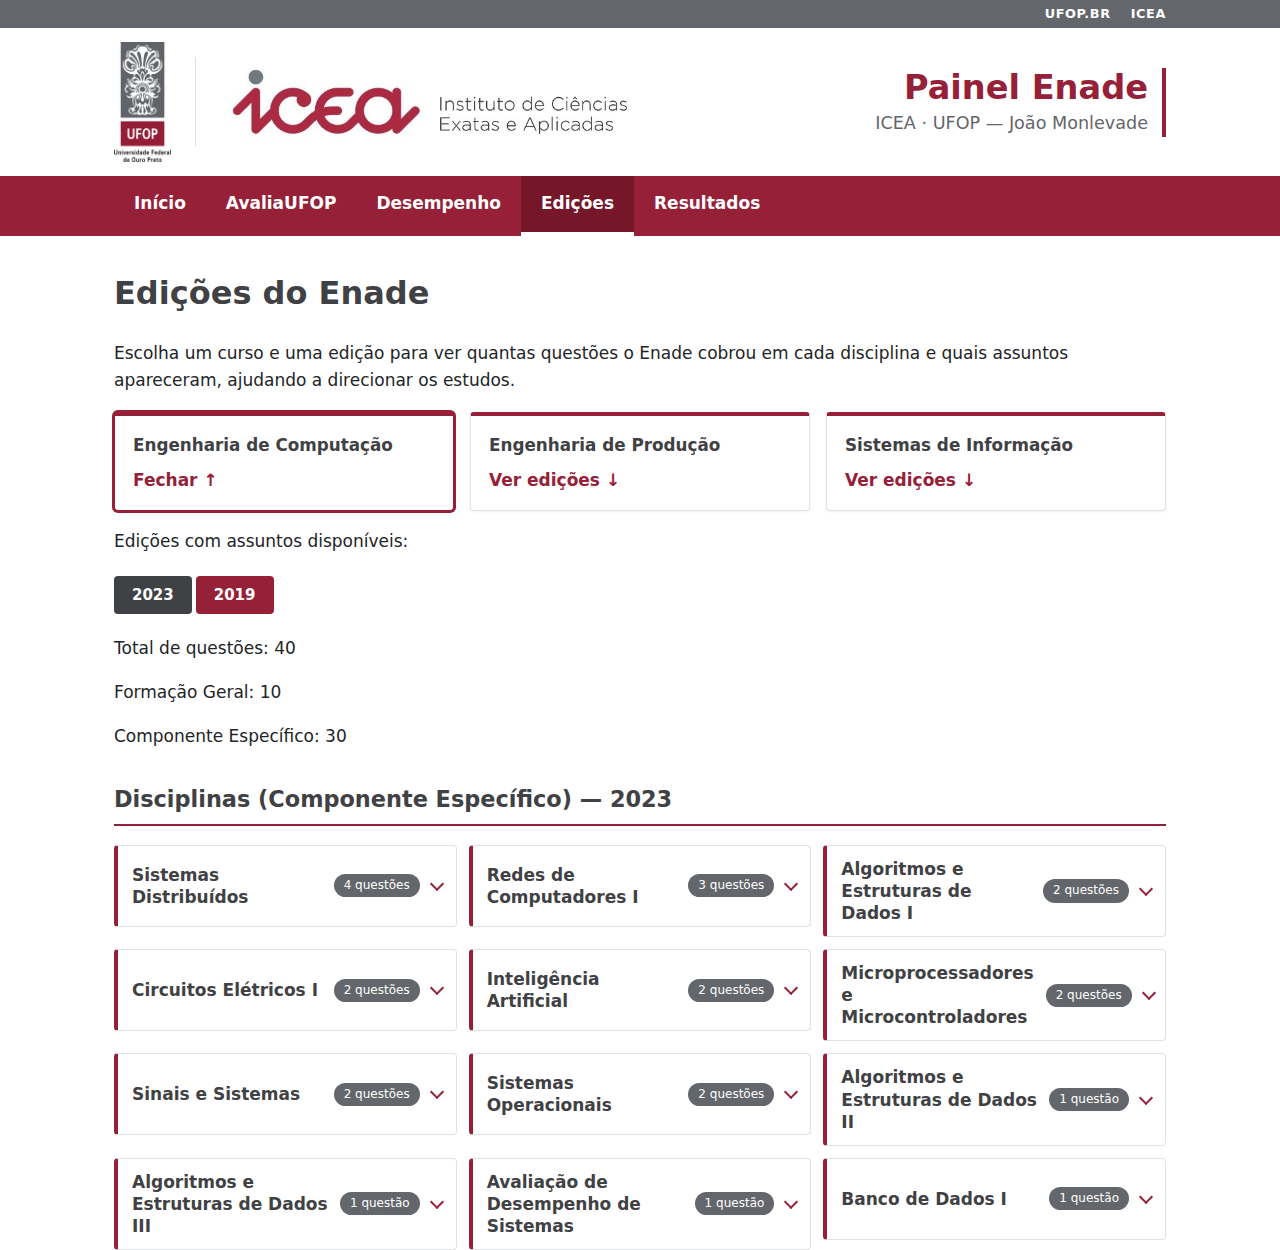
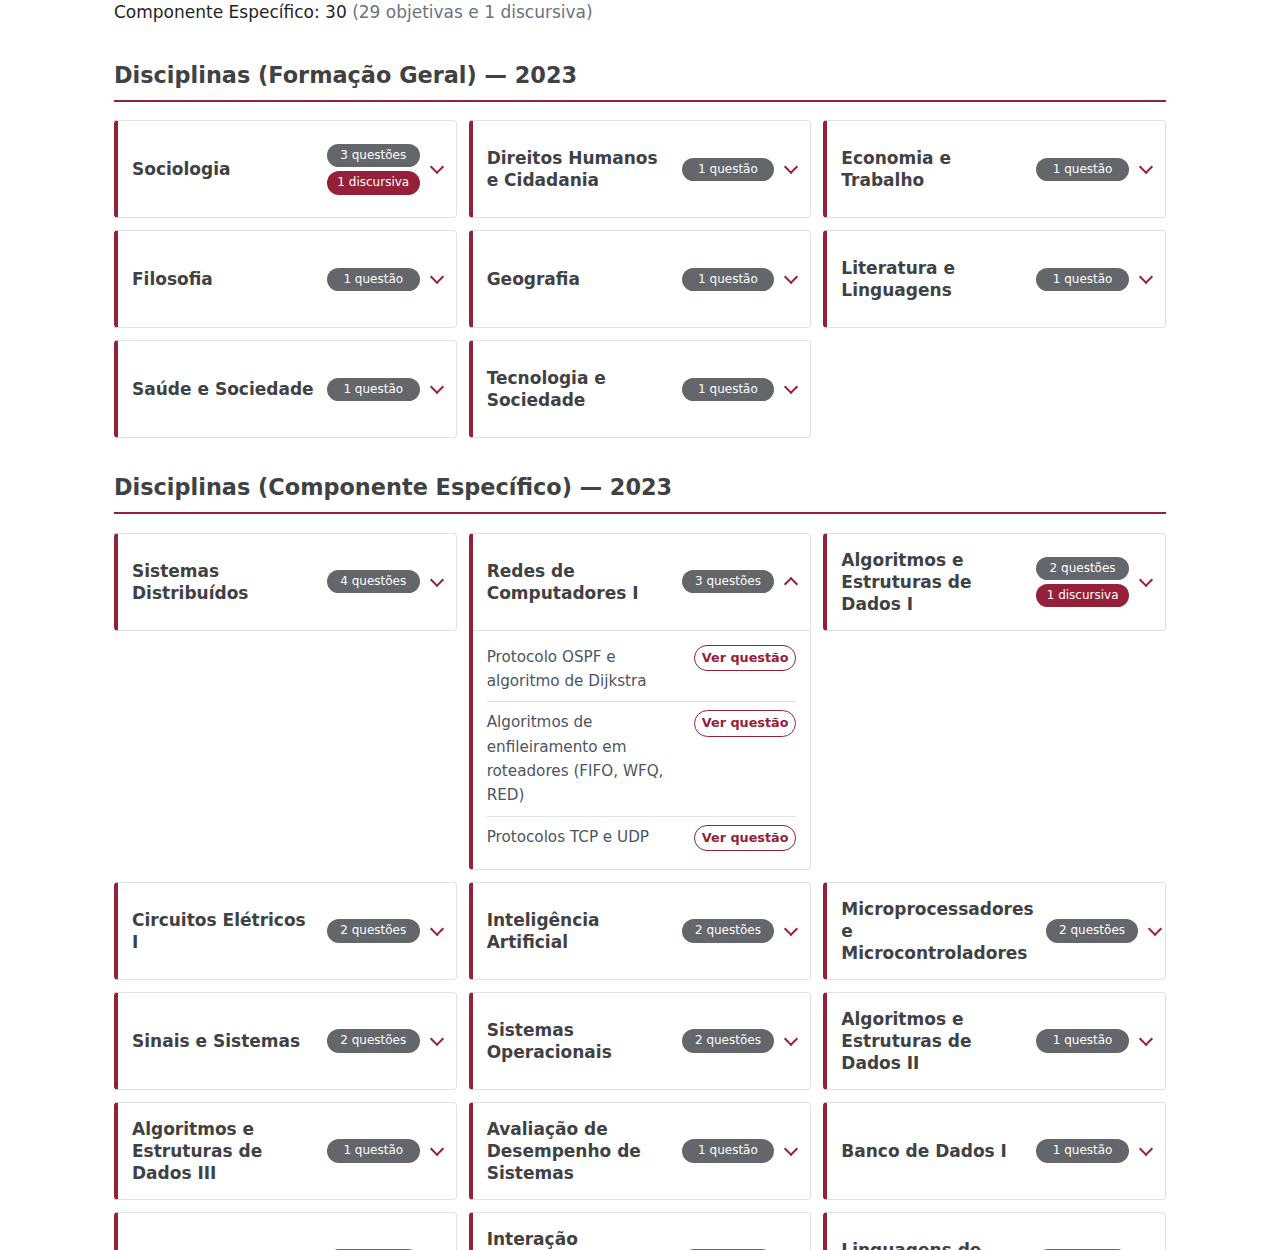
README: prints atualizados do site e telas novas
Início, Preparatório, Resultados e celular refeitos; novos prints de assuntos com
Ver questão, janela da questão, acertos por questão, discursivas, evolução e rankings.

Changed region(s): [[0.0, 0.0, 1.0, 1.0], [0.5312, 0.5616, 0.625, 0.5928], [0.8125, 0.9984, 0.875, 1.0]]

diff --git a/README.md b/README.md
@@ -52,16 +52,29 @@ O que o Enade cobrou em cada edição (2014 em diante), em quatro subtópicos:
   foram os assuntos, para Formação Geral e Componente Específico. Cada assunto tem o botão
   **Ver questão**, que abre a imagem da questão como na prova, com o gabarito (nas discursivas, só o
   enunciado; nas anuladas, sem gabarito; nas desconsideradas, o gabarito com o aviso).
+
+  <img src="docs/screenshots/04-edicoes.png" alt="Disciplinas e assuntos do Enade 2023 de Engenharia de Computação, com o botão Ver questão" width="860">
+
+  <img src="docs/screenshots/10-ver-questao.png" alt="Janela com a imagem da questão e o gabarito" width="860">
+
 - **Acertos por questão:** tabela do Relatório de Curso do INEP com o percentual de acerto da UFOP e
   de outros grupos (Brasil, estado, região...), a disciplina, o tema e o gabarito de cada questão, e
   uma tabela só com as **questões discursivas** e a nota média. Cada tabela tem a sua ordenação e o seu
   grupo de comparação, e abre e fecha. Os relatórios do INEP ficam para baixar numa caixa no fim.
+
+  <img src="docs/screenshots/07-acertos-por-questao.png" alt="Tabelas de acertos por questão do Enade 2023" width="860">
+
+  <img src="docs/screenshots/11-discursivas.png" alt="Tabela das questões discursivas com a nota média da UFOP e do Brasil" width="860">
+
 - **Evolução por disciplina:** gráfico de barras com o acerto da UFOP e do Brasil em cada edição para
   a disciplina escolhida (menu em subgrupos de disciplinas parecidas).
+
+  <img src="docs/screenshots/08-evolucao.png" alt="Gráfico de evolução de Redes de Computadores I, UFOP e Brasil" width="860">
+
 - **Mais acertos e erros:** disciplinas ou temas com mais acertos e mais erros em cada edição, com a
   escolha de quantos mostrar (3, 5 ou 10) e o botão para ver as questões de cada linha.
 
-<img src="docs/screenshots/04-edicoes.png" alt="Disciplinas e assuntos do Enade 2023 de Engenharia de Computação" width="860">
+  <img src="docs/screenshots/09-rankings.png" alt="Disciplinas com mais acertos e mais erros no Enade 2023" width="860">
 
 ### Dados Edições Anteriores — aba Resultados dos cursos
 Conceito Enade de cada edição (com o aviso do INEP de que as notas não são comparáveis entre
